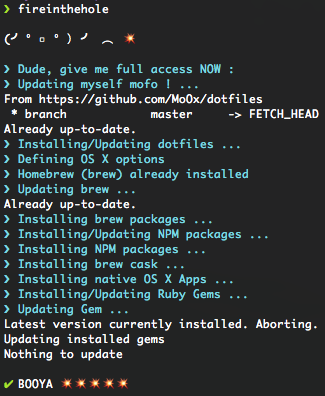
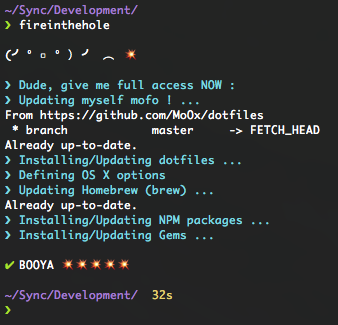
Update screenshot (with time)

diff --git a/README.md b/README.md
@@ -27,8 +27,8 @@ $ fireinthehole
 This command should update this repository, then trigger `kaboom` which is the earth of this _dotfiles_
 _Note: you will sometimes need to enter you password or some informations related to current installation_
 
-This command launch like everything you define. If you have nothing special, it shouldn't take more that 1m (mainly because of brew/gem update).
-_This is done that way to ensure you are fully up to date with what you define in there._
+This command launch like everything you define. If you have nothing special, it should take around 30s (mainly because of brew/gem update).
+_This is done that way to ensure you are fully up to date with what you define here. Very concenient when I reopen my laptop (which occurs once in a month)._
 
 ### How it works ?
 
